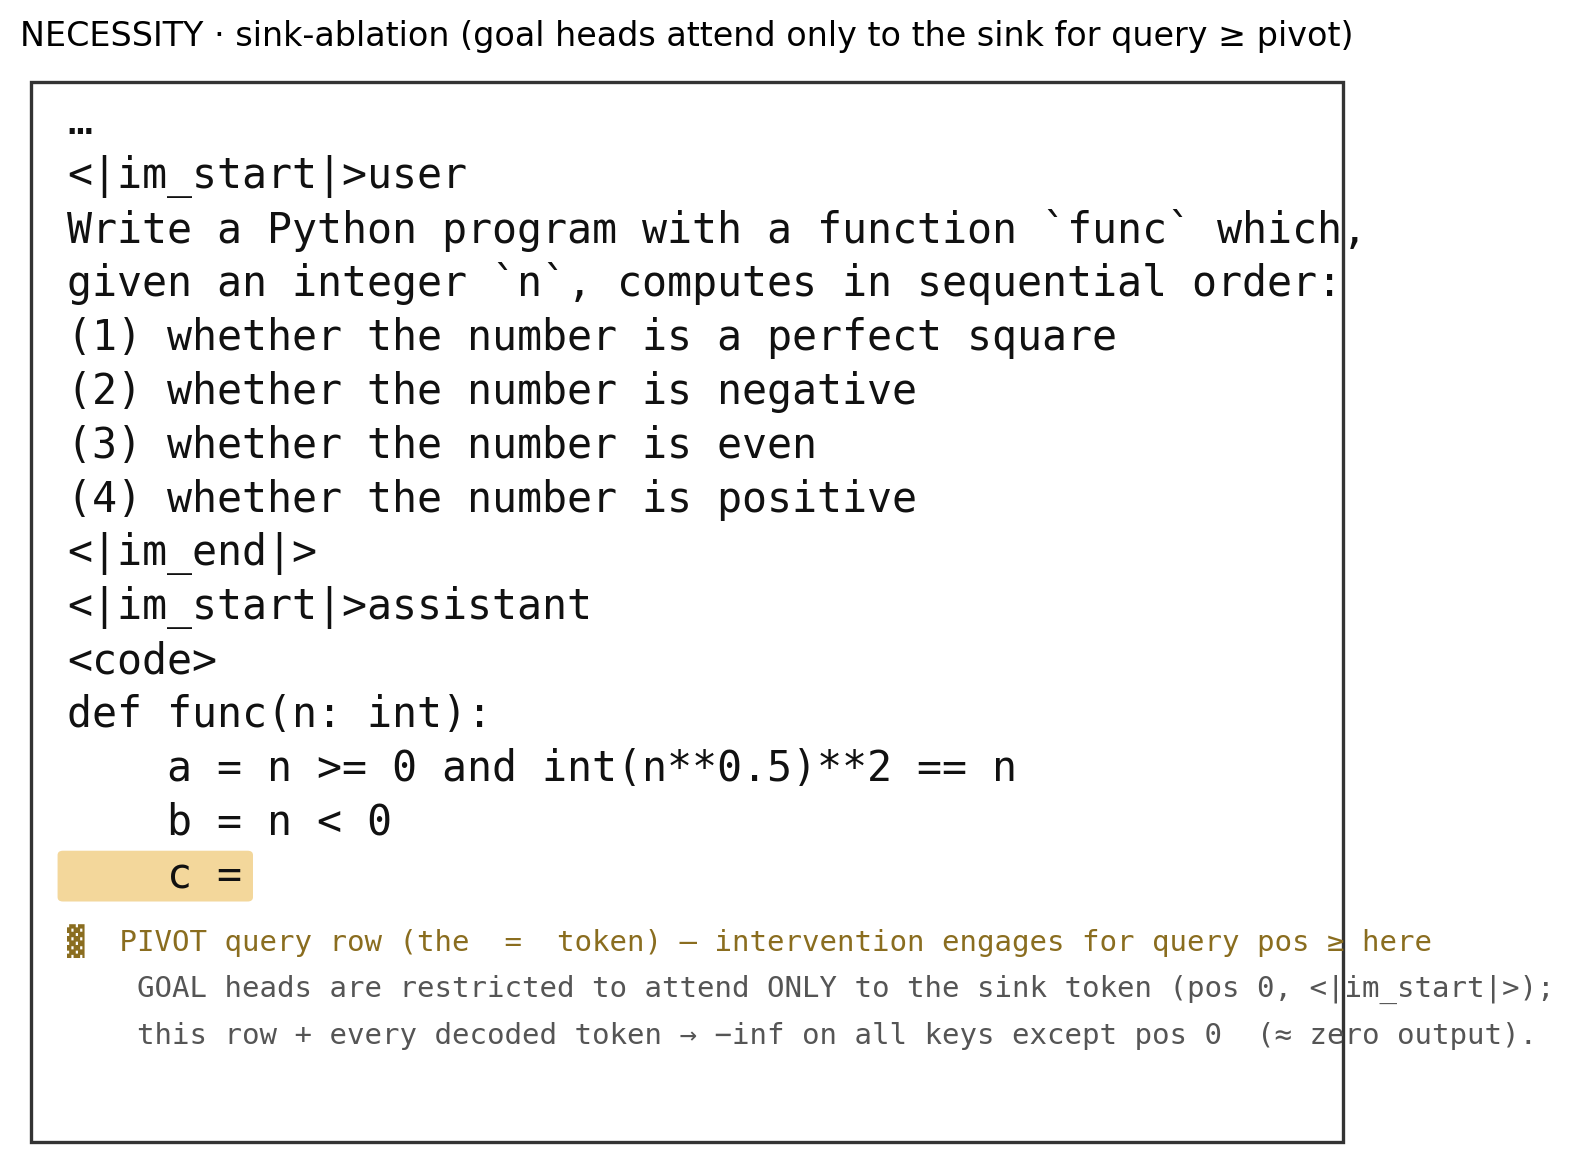
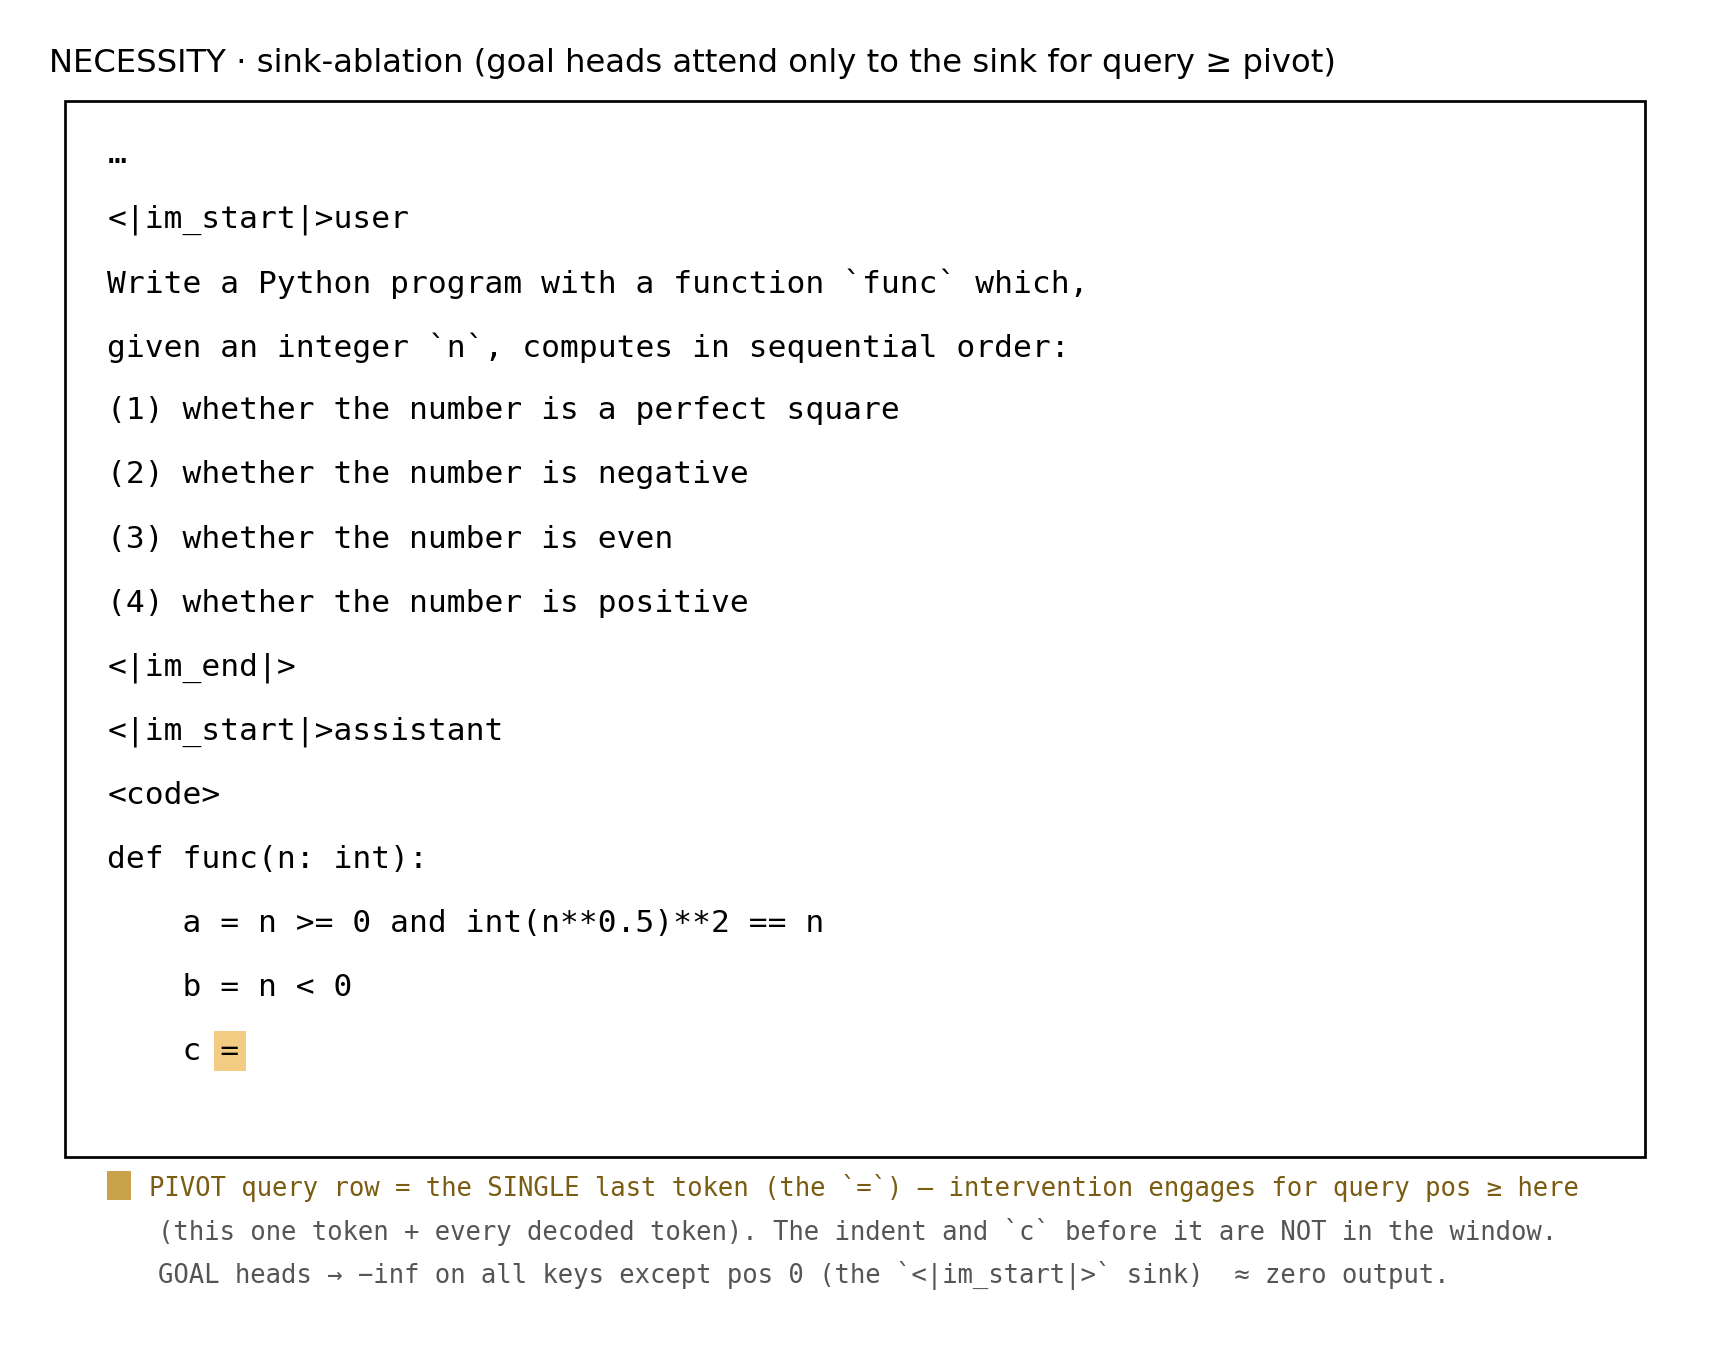
necessity ablation: add blind_task / blind_task_and_progress strategies
- eval_ablation_necessity.py: --sink_strat {bos, blind_task, blind_task_and_progress}.
  bos = sink to <|im_start|> (original); blind_task = blind goal heads from the current
  task's description span only; blind_task_and_progress = blind from the task desc through
  the pivot (spec + progress, sufficiency's span applied to the goal heads).
- ablation_common.py: frontier_desc_positions (description-only span) + blind_task /
  blind_task_and_progress dispatch in run_ablation_eval.
- ablation_analysis.md: full 3-strategy necessity grid (122 & 250) + finding — blind_task
  barely hurts (0.88/0.81), blind_task_and_progress collapses (0.37/0.25) by redirecting
  the goal heads to the PREVIOUS visible task (83.1% / 74.2% of regressions implement it),
  i.e. the goal heads causally select which task is implemented. bos/sink unchanged.
- ablation_necessity_setup.png: fix highlight to the single '=' pivot token (not the c= line).

Changed region(s): [[0.0, 0.0, 0.9651, 0.9838]]

diff --git a/scripts/evaluation/eval_ablation_necessity.py b/scripts/evaluation/eval_ablation_necessity.py
@@ -1,19 +1,29 @@
 #!/usr/bin/env python
 """NECESSITY test: are the goal heads required to implement next(DIFF)?
 
-Sink-ablation intervention (13_middle §4/§7): the GOAL heads are restricted to attend ONLY to the sink
-position (``--sink_pos``, default 0) for query rows >= the pivot — ~zeroing their useful attention
-output while every other head runs normally. Greedy-decode the frontier value and grade whether it
-still implements the frontier description.
+Two ablation strengths on the GOAL heads (``--sink_strat``), both engaging for query rows >= the pivot
+while every other head runs normally; greedy-decode the frontier value and grade whether it still
+implements the frontier description:
 
-Control (matched): sink-ablate a RANDOM |goal|-size set (from the goal band) instead of the goal heads.
-If sink-ablating the goal heads hurts no more than a random set, the goal heads are NOT necessary
+  --sink_strat bos         (default, HARDER; 13_middle §4/§7): the goal heads may attend ONLY to the
+                           sink position (``--sink_pos``, default 0 = <|im_start|>) — ~zeroing their
+                           useful attention output.
+  --sink_strat blind_task  (GENTLER): the goal heads are blinded from ONLY the current task's
+                           description span (they attend everywhere else) — tests whether they are
+                           required specifically to *read the current task spec*.
+  --sink_strat blind_task_and_progress  (MIDDLE): the goal heads are blinded from the task
+                           description THROUGH the pivot (spec + progress code), i.e. the sufficiency
+                           span but applied to the goal heads.
+
+Control (matched): apply the SAME intervention to a RANDOM |goal|-size set (from the goal band) instead
+of the goal heads. If ablating the goal heads hurts no more than a random set, they are NOT necessary
 (the computation is redundant / reroutes).
 
 Shared machinery: scripts/evaluation/ablation_common.py.
 
 Usage:
     conda run -n goals python scripts/evaluation/eval_ablation_necessity.py
+    conda run -n goals python scripts/evaluation/eval_ablation_necessity.py --sink_strat blind_task
     # smoke: ... --limit 12
 """
 import random
@@ -27,18 +37,26 @@ from scripts.evaluation.ablation_common import (  # noqa: E402
 
 
 def main():
-    args = common_argparser(__doc__).parse_args()
+    ap = common_argparser(__doc__)
+    ap.add_argument("--sink_strat", choices=["bos", "blind_task", "blind_task_and_progress"],
+                    default="bos",
+                    help="bos: goal heads attend ONLY to <|im_start|> (pos 0, hardest). "
+                         "blind_task: goal heads blinded from the current task's spec span "
+                         "(attend everywhere else, gentlest). blind_task_and_progress: goal heads "
+                         "blinded from the task spec THROUGH the pivot (spec + progress code).")
+    args = ap.parse_args()
     mt, goal_heads, datapoints, config, results_dir = load_setup(args)
 
-    # blind exactly the goal heads; matched control = a random |goal| set from the goal band (so it is
+    # ablate exactly the goal heads; matched control = a random |goal| set from the goal band (so it is
     # depth-comparable; from_layer = the shallowest goal-head layer).
     goal_from = min(l for l, _ in goal_heads)
     rng = random.Random(args.seed)
     control = random_heads_like(goal_heads, goal_from, mt.n_layer, mt.n_heads, goal_heads, rng)
 
+    strategy = "sink" if args.sink_strat == "bos" else args.sink_strat
     run_ablation_eval(
         mt, datapoints, goal_heads, control, goal_heads,
-        axis="necessity", ablated_name="goal", strategy="sink", config=config,
+        axis="necessity", ablated_name="goal", strategy=strategy, config=config,
         results_dir=results_dir, from_layer=goal_from, sink_pos=args.sink_pos,
         gen_max_new_tokens=args.gen_max_new_tokens, seed=args.seed, overwrite=args.overwrite,
     )

diff --git a/scripts/evaluation/ablation_common.py b/scripts/evaluation/ablation_common.py
@@ -113,6 +113,23 @@ def frontier_block_positions(mt, prompt, frontier_desc):
     return list(range(max(min(toks) - 1, 0), P))
 
 
+def frontier_desc_positions(mt, prompt, frontier_desc):
+    """Absolute key positions of ONLY the frontier's description span (the current task's spec text +
+    the one token before it) — NOT extended to the pivot. Used by the necessity ``blind_task``
+    strategy: the goal heads keep attending everywhere EXCEPT the current task's specification.
+    Returns None if the description isn't located."""
+    cpos = prompt.find(frontier_desc)
+    if cpos < 0:
+        return None
+    enc = prepare_input(prompts=prompt, tokenizer=mt, return_offsets_mapping=True)
+    offsets = [tuple(x) for x in enc["offset_mapping"][0].tolist()]
+    end = cpos + len(frontier_desc)
+    toks = [ti for ti, (a, b) in enumerate(offsets) if b > a and a < end and b > cpos]
+    if not toks:
+        return None
+    return list(range(max(min(toks) - 1, 0), max(toks) + 1))
+
+
 @torch.no_grad()
 def generate_blocking_span_cached(mt, prompt_ids, block_heads, block_positions, q_start,
                                   max_new=64, stop_suffix=None):
@@ -312,11 +329,17 @@ def run_ablation_eval(mt, datapoints, ablated_heads, control_heads, goal_heads, 
     generation with the oracle judge. ``strategy`` picks the intervention on the condition's head set:
 
       "sink"       — restrict those heads to attend ONLY to ``sink_pos`` (13_middle §4/§7; necessity).
-      "blind_span" — blind those heads from the frontier spec span (13_middle §5 / 07.2; sufficiency).
+      "blind_span" — blind those heads from the frontier spec span through the pivot (13_middle §5 /
+                     07.2; sufficiency).
+      "blind_task" — blind those heads from ONLY the current task's description span, attending
+                     everywhere else (a gentler necessity than "sink").
+      "blind_task_and_progress" — blind those heads from the task description THROUGH the pivot (the
+                     current-progress token), i.e. the same span as "blind_span" but applied to the
+                     axis heads (a necessity variant).
 
     ``ablated_heads`` = the axis set; ``control_heads`` = the matched contrast — both get the SAME
     intervention, differing only in WHICH heads it hits."""
-    assert strategy in ("sink", "blind_span"), strategy
+    assert strategy in ("sink", "blind_span", "blind_task", "blind_task_and_progress"), strategy
     config = dict(config, ablated_name=ablated_name, from_layer=from_layer, strategy=strategy,
                   sink_pos=sink_pos, n_specs=len(datapoints))
     run_dir = run_dir_for(results_dir, config["model"], axis, config)
@@ -345,8 +368,9 @@ def run_ablation_eval(mt, datapoints, ablated_heads, control_heads, goal_heads, 
             q_start = len(prompt_ids) - 1                       # intervene from the frontier pivot on
             cond_desc = inst.expected_next_desc
             block_pos = None
-            if strategy == "blind_span":
-                block_pos = frontier_block_positions(mt, prompt, cond_desc)
+            if strategy in ("blind_span", "blind_task", "blind_task_and_progress"):
+                block_pos = (frontier_desc_positions(mt, prompt, cond_desc) if strategy == "blind_task"
+                             else frontier_block_positions(mt, prompt, cond_desc))
                 if not block_pos:
                     logger.warning(f"[{sid}] frontier span not located — skipping")
                     continue

diff --git a/agent_reports/claude/analysis/ablation_analysis.md b/agent_reports/claude/analysis/ablation_analysis.md
@@ -29,18 +29,17 @@ The figure prints a real prompt (spec `int_python_003`, frontier `is_even` = var
 
 Concretely on this prompt: with only the goal heads able to see the shaded span the model still writes `c = (n % 2 == 0)` (✓); hand the same privilege to a random equal-size set and it wanders off — e.g. `c = (n * (n + 1)) // 2` (✗). Across n=253 the goal-spared run stays near baseline while the random-spared control collapses to ~0.09.
 
-### Necessity — sink-ablation (13_middle §4/§7)
+### Necessity — three ablation strengths on the goal heads (`--sink_strat`, 13_middle §4/§7)
 
-The target heads are restricted to attend **only to the sink position** (`sink_pos = 0`): for query rows ≥ the pivot, their softmax input gets `-inf` at every key except position 0 (which stays 0), ≈ zeroing the head's useful attention output. Every other head runs normally. `from_layer` here is just the lower bound of the matched-control pool (`goal_from`), not a blinding boundary.
+`eval_ablation_necessity.py --sink_strat {bos, blind_task, blind_task_and_progress}` applies one of three interventions to the target heads, engaging only for query rows ≥ the pivot (the `=` token); every other head runs normally. `from_layer` here is just the lower bound of the matched-control pool (`goal_from`), not a blinding boundary.
 
-- **`ablated`** = sink the **goal** heads themselves.
-- **`control`** = sink a **random** equal-size set from the goal band (`range(goal_from, 64)`, disjoint from the goal heads).
+- **`bos`** (sink; the original) — the heads may attend **only to position 0** (`<|im_start|>`): `-inf` at every other key, ≈ zeroing the head's useful output. Nothing in the *prompt* is blinded; the query rows from the pivot on are the thing restricted.
+- **`blind_task`** — the heads are blinded from **only the current task's description span** (`frontier_desc_positions`); they attend everywhere else.
+- **`blind_task_and_progress`** — the heads are blinded from the task description **through the pivot** (`frontier_block_positions` = spec text + the progress code up to the current-progress token; the same span sufficiency's `blind_span` uses), attending everywhere before it.
 
-The figure prints the same prompt; here nothing in the *prompt* is blinded. Instead the intervention marks the **query rows from the `c =` pivot onward** (shaded): at those rows the goal heads' softmax scores become `-inf` everywhere except key position 0 (the sink token `<|im_start|>`), so their attention output ≈ 0 while every other head runs normally.
+In all three, **`ablated`** = the **goal** heads and **`control`** = a **random** equal-size set from the goal band (`range(goal_from, 64)`, disjoint from the goal heads). If ablating the goal heads hurts no more than the random set, they are **not** necessary (the computation reroutes).
 
-![necessity setup](figures/ablation_necessity_setup.png)
-
-If sinking the goal heads hurts no more than sinking a random equal-size set, the goal heads are **not** necessary (the computation reroutes).
+![necessity setup — bos/sink (query rows from the `=` pivot restricted to the pos-0 sink)](figures/ablation_necessity_setup.png)
 
 The control in both tests is depth-matched — the random set is drawn from `range(goal_from, 64)`, so a result cannot be an artifact of a shallower/deeper pool than the goal set. (This fixed an earlier sufficiency control that sampled from a fixed `from_layer=20` pool.)
 
@@ -60,29 +59,36 @@ Sparing the goal heads keeps generation near baseline; sparing a depth-matched r
 
 Per-datatype, the 122-head residual gap is concentrated in `list[str]` (1.00→0.70) and `str` (0.92→0.86); `int` stays strong (1.00→0.91). The 250-head set is at/near baseline across all four types.
 
-### Necessity — no *small* subset is necessary, but the full set is
+### Necessity — depends heavily on WHICH input you deny the goal heads
 
-| condition | 122 overall | 250 overall |
-|-----------|:-----------:|:-----------:|
-| baseline | 0.925 | 0.925 |
-| **sink GOAL heads** | **0.854** | **0.158** |
-| sink RANDOM equal set | 0.925 | 0.921 |
+All n=253, baseline = 0.925 for both budgets. `ablated` = the goal heads under the named strategy; `control` = the same intervention on a matched random set.
 
-This is the more interesting half:
+| strategy (goal heads) | blinded span | 122 ablated | 250 ablated | control (122 / 250) |
+|-----------------------|--------------|:-----------:|:-----------:|:-------------------:|
+| `blind_task` | current task description only | 0.881 | 0.806 | 0.925 / 0.925 |
+| `bos` (sink) | attend only to pos 0 (≈ zeroed) | 0.854 | **0.158** | 0.925 / 0.921 |
+| `blind_task_and_progress` | task desc → pivot (spec + progress) | **0.372** | **0.249** | 0.925 / 0.925 |
 
-- **The core 122 heads are *not* necessary.** Sinking them drops overall only 0.925→0.854 — well above collapse — while the random control is untouched (0.925). The goal computation **reroutes**: knocking out the 122 heads that most confidently encode the goal barely hurts, because the signal is redundantly available elsewhere.
-- **The 250-head set *is* necessary.** Sinking the full set collapses to **0.158**, while sinking 250 *random* heads (also from layer 0) leaves generation intact (0.921). So the collapse is specific to the goal heads, not a generic "ablate 250 heads and it breaks" effect.
+Reading across the three strengths:
 
-The redundancy therefore lives *within* the ~128 heads beyond the core 122: any small confident subset can be spared (rerouted around), but the union of the goal-writing heads is both **necessary and sufficient**.
+- **Reading the task description at the pivot is *not* what the goal heads need.** `blind_task` — denying them exactly the current task's spec text — barely moves either budget (122: 0.881, 250: 0.806). The goal has already been folded into the residual upstream; the heads don't re-read the spec at the pivot.
+- **Their necessary input is the progress/code region up to the pivot.** `blind_task_and_progress` — the same as `blind_task` but extended through the progress code to the pivot — collapses both budgets (122: 0.372, 250: 0.249).
+- **`blind_task_and_progress` *redirects* the goal heads to the previous task — it doesn't merely break them.** With the frontier's spec + progress hidden, the latest task the goal heads can still read is the **previous predicate**, and the model coherently implements *that* at the frontier slot (e.g. frontier "even" → ablated writes `n < 0` = the previous "negative" task; frontier "even" → `n == int(str(n)[::-1])` = the previous "palindrome" task). Oracle re-judging the ablated outputs against the *previous visible task* confirms it: **83.1%** of the 130 goal122 regressions (108/130) and **74.2%** of the 155 goal250 regressions (115/155) implement the previous task. So the low frontier-rate (0.372 / 0.249) is task **misselection**, not model breakage — which is also why it can look "harsher" than the `bos` sink: the sink zeros the heads and the network reroutes back to the frontier (122: 0.854), whereas here the heads stay live and causally select the latest task they can see. This is a *stronger* causal result — the goal heads decide **which** task is implemented from the most recent task description they can read.
+- **The 250 set is broadly necessary.** Under the two harsh interventions it collapses (sink 0.158, blind_task_and_progress 0.249); only `blind_task` (spec-only) leaves it near baseline (0.806).
+- **All effects are goal-specific**: the matched random control stays ~0.92 across every strategy and budget.
+
+So the earlier "the core 122 are not necessary" holds *only for the sink*: zeroing the 122 heads reroutes (0.854), but denying them the progress context while they stay active does break them (0.372). The redundancy that lets the sink reroute lives *within* the ~128 heads beyond the core 122; the union of the goal-writing heads is necessary under every harsh denial.
 
 ---
 
 ## Takeaway
 
 - **Sufficient (both budgets):** the goal heads alone, reading the spec span, reproduce baseline frontier implementation; a matched random set cannot (~0.09).
-- **Necessary (only at the full 250-head set):** the core 122 heads are individually redundant (sink → 0.85, reroutes), but the full goal-head set is necessary (sink → 0.16) and the effect is head-specific (random control → 0.92).
+- **Necessary — depends on what you deny.** The full 250-head set is necessary under the harsh interventions (sink → 0.16, blind_task_and_progress → 0.25); the core 122 reroutes under the sink (0.85) but still breaks when blinded from the progress context while staying active (blind_task_and_progress → 0.37). Denying only the task-description span barely hurts either budget (blind_task ≥ 0.81) — the goal heads' necessary input is the **progress/code up to the pivot**, not the spec text at the pivot. Every effect is head-specific (random control ~0.92).
 
-Net: the "intent to implement next(DIFF)" is carried by a **distributed, redundant set** of attention heads — sufficient in any reasonably-sized spared subset, necessary only in its union. This refines the earlier "sufficient but not necessary" framing: *not necessary* holds for the confident 122-head core, but *necessary* re-emerges once the redundant tail is included.
+Net: the "intent to implement next(DIFF)" is carried by a **distributed, redundant set** of attention heads — sufficient in any reasonably-sized spared subset, necessary in its union, and reliant on the progress/code context (not the re-read spec) at the pivot. This refines the earlier "sufficient but not necessary" framing: *not necessary* holds only for the confident 122-head core **under the sink**; *necessary* re-emerges once the redundant tail is included, or once the intervention denies the progress context rather than merely zeroing the heads.
+
+- **The goal heads causally select *which* task is implemented.** When blinded from the frontier's spec+progress (`blind_task_and_progress`) they don't produce garbage — they implement the **previous** task, the latest one they can still read (83.1% of goal122 / 74.2% of goal250 regressions). Task selection at the pivot is routed through the goal heads' view of the task list.
 
 ---
 
@@ -92,7 +98,11 @@ Net: the "intent to implement next(DIFF)" is carried by a **distributed, redunda
 |------|:------:|----------|
 | sufficiency | 122 | `sufficiency/heads=spare_goal__goal122__fromL=20__strat=blind_span__dtype=all__nspec=253__seed=123` |
 | sufficiency | 250 | `sufficiency/heads=spare_goal__goal250__fromL=20__strat=blind_span__dtype=all__nspec=253__seed=123` |
-| necessity | 122 | `necessity/heads=goal__goal122__fromL=28__strat=sink__dtype=all__nspec=253__seed=123` |
-| necessity | 250 | `necessity/heads=goal__goal250__fromL=0__strat=sink__dtype=all__nspec=253__seed=123` |
+| necessity (bos/sink) | 122 | `necessity/heads=goal__goal122__fromL=28__strat=sink__dtype=all__nspec=253__seed=123` |
+| necessity (bos/sink) | 250 | `necessity/heads=goal__goal250__fromL=0__strat=sink__dtype=all__nspec=253__seed=123` |
+| necessity (blind_task) | 122 | `necessity/heads=goal__goal122__fromL=28__strat=blind_task__dtype=all__nspec=253__seed=123` |
+| necessity (blind_task) | 250 | `necessity/heads=goal__goal250__fromL=0__strat=blind_task__dtype=all__nspec=253__seed=123` |
+| necessity (blind_task_and_progress) | 122 | `necessity/heads=goal__goal122__fromL=28__strat=blind_task_and_progress__dtype=all__nspec=253__seed=123` |
+| necessity (blind_task_and_progress) | 250 | `necessity/heads=goal__goal250__fromL=0__strat=blind_task_and_progress__dtype=all__nspec=253__seed=123` |
 
 All under `results/evaluation/ablation/Qwen2.5-Coder-32B-Instruct/`. Figure regen: scratchpad `fig_ablation.py`.
